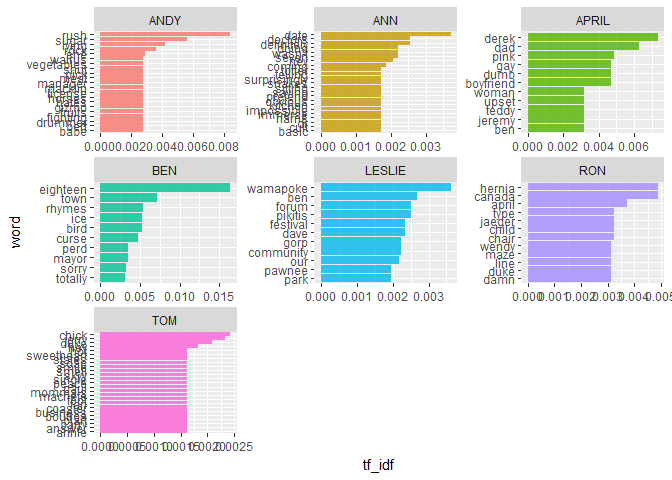
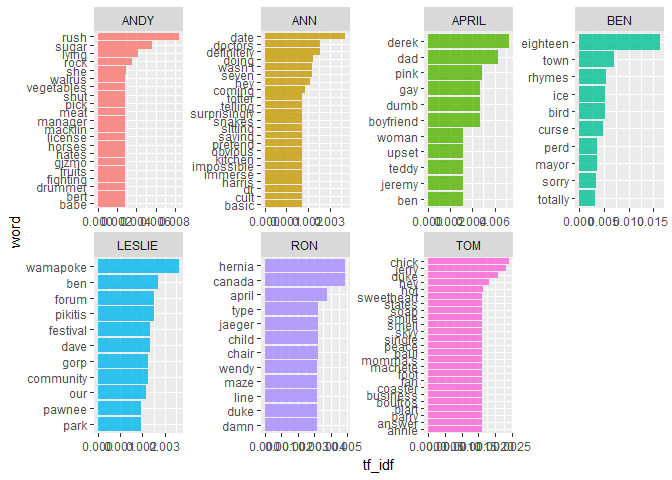
fix facetwrap

diff --git a/public/2018/02/happy-galentines-day/index.html b/public/2018/02/happy-galentines-day/index.html
@@ -459,7 +459,7 @@ vegetables</em>?</p>
   mutate(word = reorder_within(word, tf_idf, speaker)) %&gt;% 
   ggplot(aes(word, tf_idf, fill = speaker)) +
   geom_col(alpha = 0.8, show.legend = FALSE) +
-  facet_wrap(~ speaker, scales = &quot;free&quot;, ncol = 3) +
+  facet_wrap(~ speaker, scales = &quot;free&quot;, nrow = 2) +
   scale_x_reordered() +
   coord_flip()
 </code></pre>

diff --git a/content/post/2018-02-13-happy-galentines-day.md b/content/post/2018-02-13-happy-galentines-day.md
@@ -234,7 +234,7 @@ vegetables*?
       mutate(word = reorder_within(word, tf_idf, speaker)) %>% 
       ggplot(aes(word, tf_idf, fill = speaker)) +
       geom_col(alpha = 0.8, show.legend = FALSE) +
-      facet_wrap(~ speaker, scales = "free", ncol = 3) +
+      facet_wrap(~ speaker, scales = "free", nrow = 2) +
       scale_x_reordered() +
       coord_flip()
 
